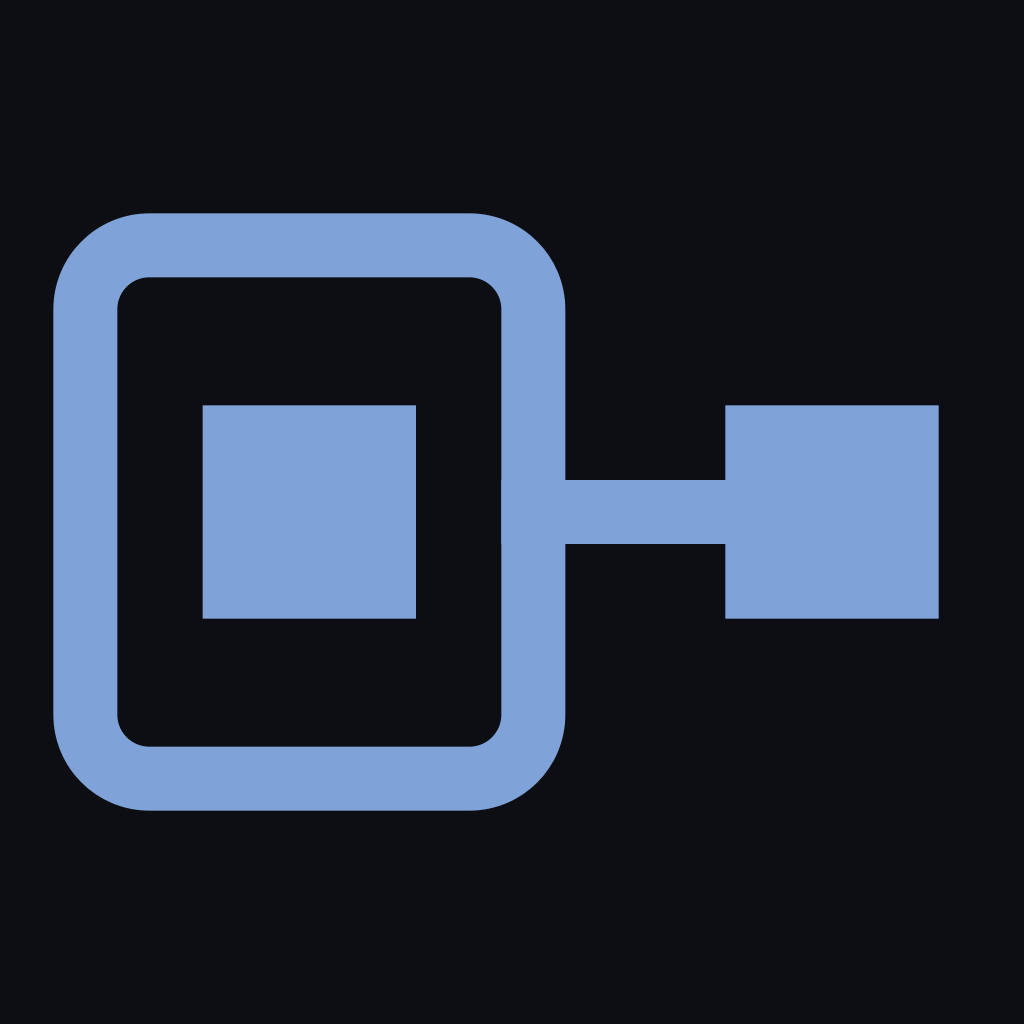
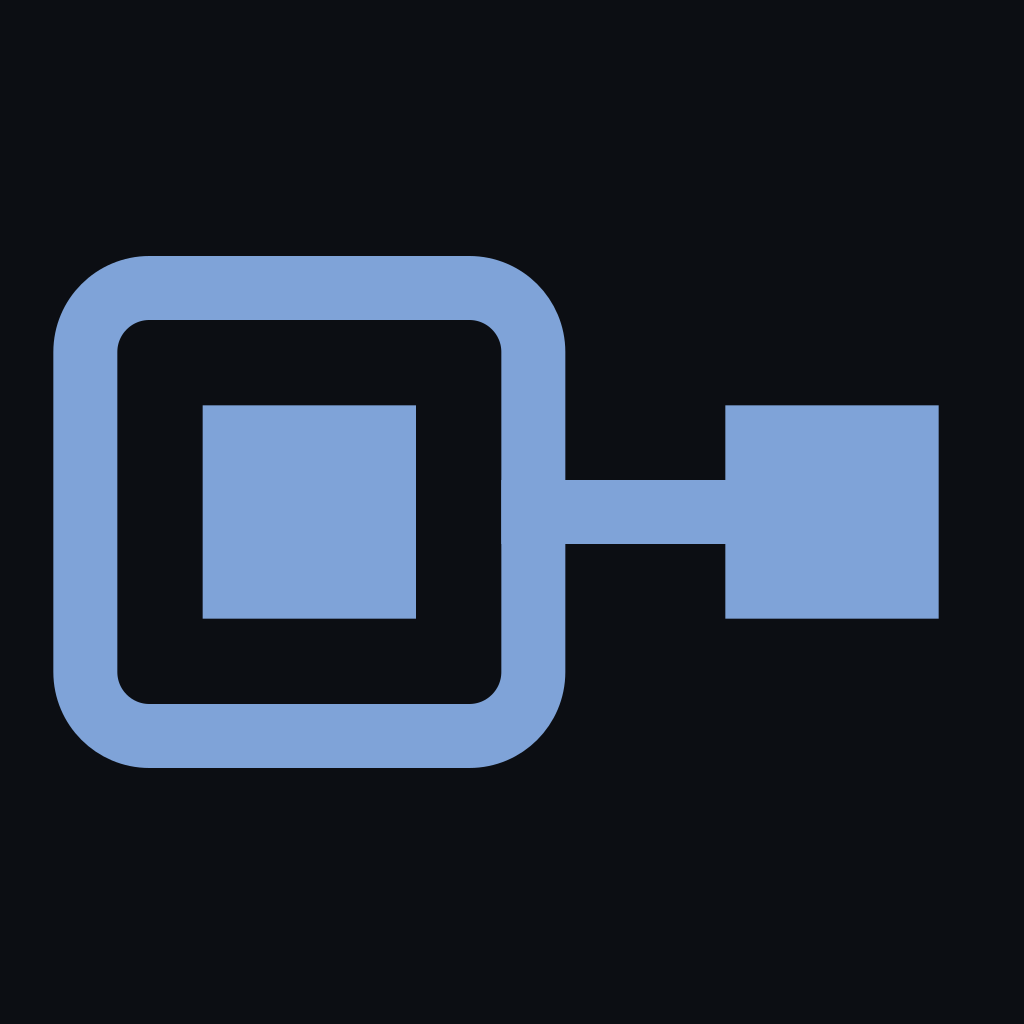
Make the container an actual square

Changed region(s): [[0.0312, 0.6562, 0.5625, 0.8125], [0.0312, 0.1875, 0.5625, 0.3438]]

diff --git a/index.html b/index.html
@@ -74,10 +74,10 @@
     <a class="brand" href="./">
       <svg viewBox="0 0 24 24" aria-hidden="true" fill="none" stroke="currentColor"
            stroke-width="1.5" stroke-linecap="square">
-        <rect x="1.75" y="5.75" width="10.5" height="12.5" rx="1.5"/>
-        <rect x="4.5" y="9.5" width="5" height="5" fill="currentColor" stroke="none"/>
-        <path d="M12.25 12 h4.5"/>
-        <rect x="16.75" y="9.5" width="5" height="5" fill="currentColor" stroke="none"/>
+        <rect x="2" y="6.75" width="10.5" height="10.5" rx="1.5"/>
+        <rect x="4.75" y="9.5" width="5" height="5" fill="currentColor" stroke="none"/>
+        <path d="M12.5 12 h4.5"/>
+        <rect x="17" y="9.5" width="5" height="5" fill="currentColor" stroke="none"/>
       </svg>
       CompanyGraph
     </a>
